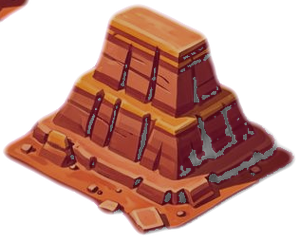
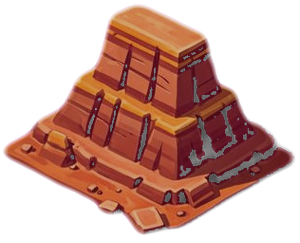
Game: round 8 war scene fixes (every unit type stands in the front line, so big armies keep their defenders; stray block removed from the second mesa; price labels with separators) with a browser check

Changed region(s): [[0.0, 0.0, 0.09, 0.0864]]

diff --git a/game/src/scenes/BattleScene.js b/game/src/scenes/BattleScene.js
@@ -102,13 +102,14 @@ export class BattleScene extends Phaser.Scene {
   // stand an army in two columns: melee in the front column (nearer the middle), snipers behind; sprite counts follow the army's size
   placeArmy(side, n, types) {
     const W = this.scale.width, H = this.scale.height;
+    // every type the army has stands in the front line once; the biggest then double up (two sprites at 60 or more) while there is room (5 in all)
     const list = [];
-    for (const t of types) {
-      const c = n.units[t];
-      if (c <= 0) continue;
-      const k = c >= 60 && t !== 1 ? 2 : 1;
-      for (let i = 0; i < k; i++) list.push({ t, ch: CHARS[t] });
+    for (const t of types) if (n.units[t] > 0) list.push({ t, ch: CHARS[t] });
+    for (const t of [...types].sort((p1, p2) => n.units[p2] - n.units[p1])) {
+      if (list.length >= 5) break;
+      if (n.units[t] >= 60 && t !== 1) list.push({ t, ch: CHARS[t] });
     }
+    list.sort((u1, u2) => u1.t - u2.t);
     if (!list.length) list.push({ t: 0, ch: n.emblem || 'bruiser' });
     const sign = side === 'L' ? 1 : -1;
     const frontX = side === 'L' ? W * (this.portrait ? 0.4 : 0.4) : W * (this.portrait ? 0.6 : 0.6);

diff --git a/game/src/scenes/MapScene.js b/game/src/scenes/MapScene.js
@@ -598,7 +598,7 @@ export class MapScene extends Phaser.Scene {
       g.fillStyle(col, afford ? 0.16 : 0.07).fillRect(X + 3, Y + 3, T - 6, T - 6);
       g.lineStyle(3, col, afford ? 0.95 : 0.4).strokeRect(X + 3, Y + 3, T - 6, T - 6);
       this.tweens.add({ targets: g, alpha: afford ? 0.45 : 0.8, duration: 800, yoyo: true, repeat: -1, ease: 'Sine.easeInOut' });
-      const t = this.add.text(X + T / 2, Y + T / 2, `+ $${cost}`, { fontFamily: 'system-ui, sans-serif', fontSize: '15px', fontStyle: '800', color: afford ? '#ffffff' : '#9a9a8a', stroke: '#000000', strokeThickness: 4, resolution: 2 }).setOrigin(0.5).setDepth(9400);
+      const t = this.add.text(X + T / 2, Y + T / 2, `+ $${cost.toLocaleString('en-US')}`, { fontFamily: 'system-ui, sans-serif', fontSize: '15px', fontStyle: '800', color: afford ? '#ffffff' : '#9a9a8a', stroke: '#000000', strokeThickness: 4, resolution: 2 }).setOrigin(0.5).setDepth(9400);
       this.landObjs.push(g, t); this.landLabels.push(t);
     }
   }
